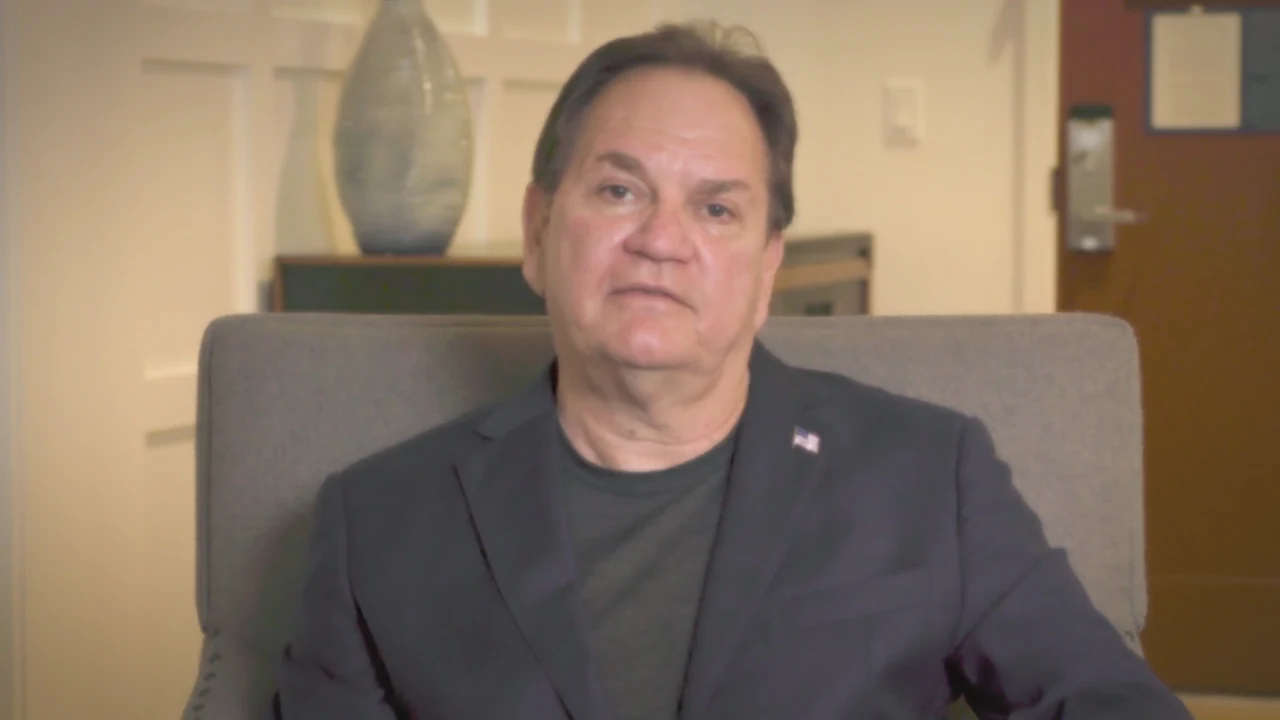
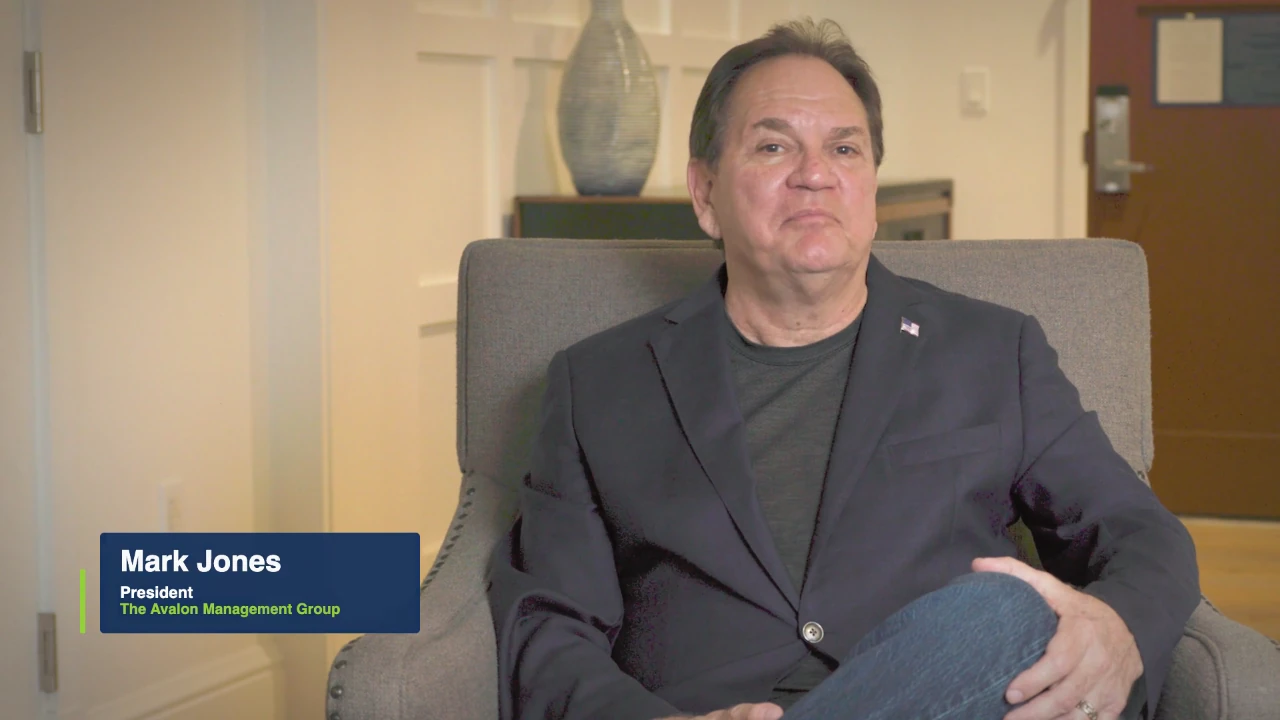
members: poster moves to the 3s title-card frame, play button re-centred
Poster is now the frame at 3.0s, while the video's own "Mark Jones /
President / The Avalon Management Group" lower third is on screen. It
identifies him without the page having to. Sampled 2.6-3.45s to find the
point where the card is fully up and he's least mid-word. 1280x720 WebP,
66.4 KB at quality 90.

Play button back to centre. It only needed offsetting because the previous
frame had him dead centre; at 3s he sits right of centre, so a centred
button lands on his chest. Also sized down from 112px to 72px with the
glyph up from 34px to 30px-in-72 — roughly 42% of the circle instead of
30%, which is how YouTube and Vimeo weight theirs. It was mostly empty
green before.

Two things the new frame forced:

- The burned-in card and the stage caption both say who he is, stacked on
  top of each other. When a poster carries its own lower third the caption
  now drops its avatar and text and keeps only the runtime chip, and the
  scrim lightens to a thin foot since there's no text left to protect.
- The narrow-stage 4:3 crop trims the sides off a 16:9 poster, which sliced
  the card to "rk Jones". Anchored left on those widths so the card
  survives; the empty right side is what gets lost instead.

Contrast zero failures, no overflow or collisions 320-1920, lightbox
unaffected (0 Vimeo requests on load, 18 on open, teardown on close).

diff --git a/src/styles/member-highlight-page.css b/src/styles/member-highlight-page.css
@@ -74,19 +74,20 @@
       color: rgba(255,255,255,0.4); text-align: center; max-width: 32ch; line-height: 1.6;
     }
     /* play button — Innovia green is the one action colour.
-       Offset left rather than centred: the poster is a head-and-shoulders frame
-       at the same 16:9 as the stage, so nothing crops and a centred button
-       lands squarely on the subject's face. The left third is wall. */
+       Centred, per convention: the poster is framed with the subject
+       right-of-centre so the button lands on his chest, not his face.
+       Glyph is ~42% of the circle, matching how YouTube/Vimeo weight theirs —
+       at 112px with a 34px glyph it was mostly empty green. */
     .v-stage .play {
-      position: absolute; top: 50%; left: 24%; transform: translate(-50%, -50%); z-index: 3;
-      width: 112px; height: 112px; border-radius: 999px;
+      position: absolute; top: 50%; left: 50%; transform: translate(-50%, -50%); z-index: 3;
+      width: 72px; height: 72px; border-radius: 999px;
       background: var(--innovia-green); color: var(--innovia-navy);
       display: flex; align-items: center; justify-content: center;
       box-shadow: 0 18px 50px rgba(149,208,49,0.32);
       transition: transform .2s var(--ease-out), background .2s;
     }
     .v-stage:hover .play { transform: translate(-50%, -50%) scale(1.06); background: #fff; }
-    .v-stage .play svg { margin-left: 6px; }
+    .v-stage .play svg { width: 30px; height: 30px; margin-left: 3px; }
     .v-stage .chip-tl {
       position: absolute; top: 20px; left: 20px; z-index: 3;
       display: inline-flex; align-items: center; gap: 8px; padding: 8px 13px;
@@ -639,6 +640,16 @@ body.modal-open { overflow: hidden; }
   backdrop-filter: blur(6px);
   -webkit-backdrop-filter: blur(6px);
 }
+/* Poster carries its own lower third: no caption text to protect, so the
+   scrim lightens to a thin foot and the runtime chip sits alone on the right,
+   clear of the burned-in name on the left. */
+.v-stage .caption.is-bare {
+  padding: 22px 18px 16px;
+  background: linear-gradient(to top, rgba(11,27,53,0.55) 0%, rgba(11,27,53,0) 100%);
+  justify-content: flex-end;
+}
+.v-stage .caption.is-bare .runtime { margin-left: 0; }
+
 /* Deepen the caption scrim so the title holds over a bright poster. */
 .v-stage .poster-slot ~ .caption { background: linear-gradient(to top, rgba(11,27,53,0.94) 0%, rgba(11,27,53,0.66) 48%, rgba(11,27,53,0) 100%); }
 .v-stage iframe { position: absolute; inset: 0; width: 100%; height: 100%; border: 0; }
@@ -762,8 +773,12 @@ body.modal-open { overflow: hidden; }
 .v-stage-wrap { container-type: inline-size; }
 @container (max-width: 520px) {
   .v-stage { aspect-ratio: 4 / 3; }
-  .v-stage .play { width: 68px; height: 68px; }
-  .v-stage .play svg { width: 26px; height: 26px; margin-left: 4px; }
+  /* 4:3 trims the sides off a 16:9 poster. A burned-in lower third is anchored
+     to the frame's left edge, so centre-cropping cuts the name in half —
+     anchor left instead and lose the empty right side. */
+  .v-stage.has-lower-third .poster-slot img { object-position: 0% 50%; }
+  .v-stage .play { width: 56px; height: 56px; }
+  .v-stage .play svg { width: 24px; height: 24px; margin-left: 2px; }
   .v-stage .chip-tl { top: 12px; left: 12px; padding: 6px 10px; font-size: 9px; }
   .v-stage .corner-tag {
     top: 46px; left: 12px; right: auto;

diff --git a/src/data/member-highlights.ts b/src/data/member-highlights.ts
@@ -60,6 +60,12 @@ export interface MemberProfile {
     /** ISO 8601 duration + upload date, for VideoObject schema. */
     durationIso?: string;
     uploadDate?: string;
+    /**
+     * The chosen frame already has the subject's name/role burned in as a
+     * lower third. When true the stage drops its own caption text so the two
+     * don't stack on top of each other; the runtime chip stays.
+     */
+    posterHasLowerThird?: boolean;
   };
 
   /** Four-up stat strip under the hero. */
@@ -197,9 +203,9 @@ const avalon: MemberProfile = {
     'Independent community management for San Diego &amp; Riverside Counties since 1983 — local, hands-on service backed by the resources of a national cooperative.',
 
   video: {
-    // Frame pulled from the interview at 25.2s — the one point where he's
-    // looking at camera with his mouth closed. An honest thumbnail: it's
-    // actually in the video, unlike a building exterior.
+    // Frame pulled from the interview at 3.0s, while the video's own
+    // "Mark Jones / President" lower third is on screen — it identifies him
+    // without the page having to, and it's genuinely a frame from the video.
     posterSrc: '/assets/photos/members/avalon-interview-poster.webp',
     posterAlt:
       'Mark Jones, President and Owner of Avalon Management Group, during his member interview',
@@ -213,6 +219,7 @@ const avalon: MemberProfile = {
     vimeoId: '1223449346',
     durationIso: 'PT31S',
     uploadDate: '2026-09-02',
+    posterHasLowerThird: true,
   },
 
   stats: [
